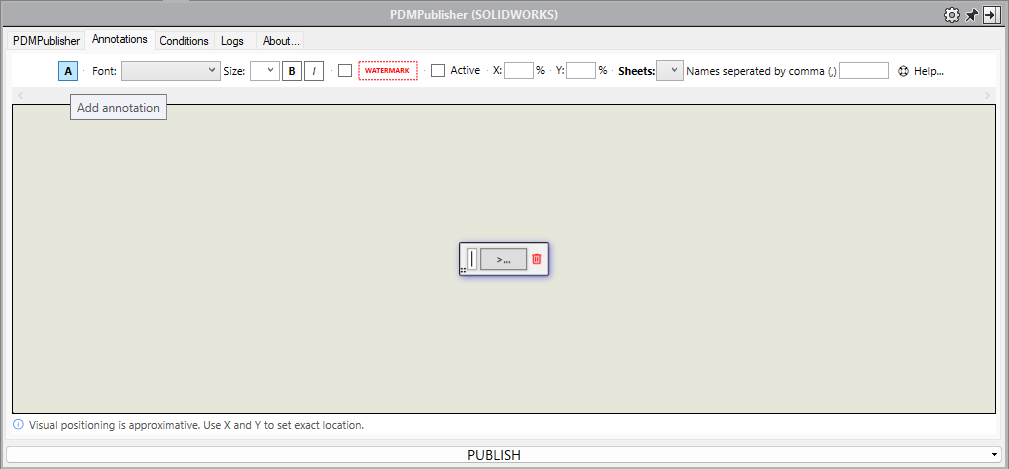
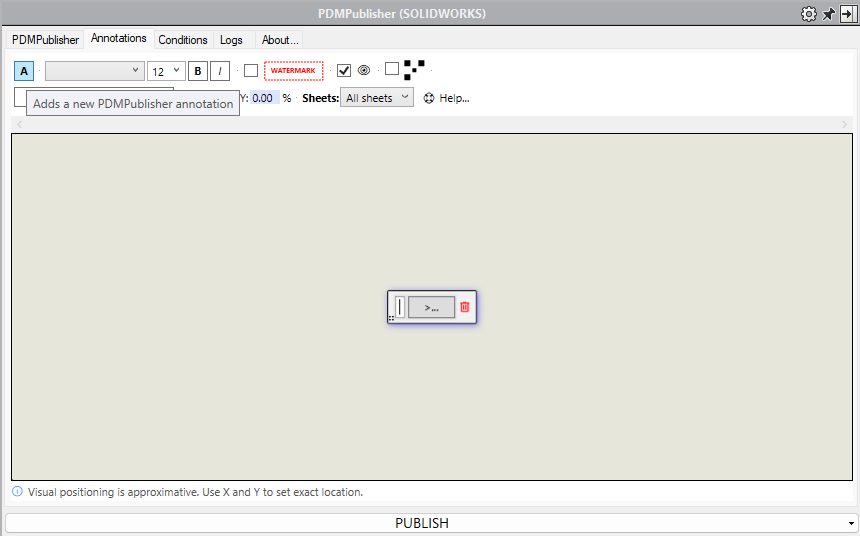
added copy xy from note to annotations tab

Changed region(s): [[0.0, 0.0, 1.0, 1.0], [0.4233, 0.5075, 0.5744, 0.6269], [0.8767, 0.1194, 0.9372, 0.1791]]

diff --git a/docs/src/pdmpublishersolidworks_annotations.html b/docs/src/pdmpublishersolidworks_annotations.html
@@ -152,8 +152,34 @@
 <h2 id="annotation-position">Annotation Position</h2>
 <ul>
 <li>Each annotation can be repositioned manually by clicking and dragging from its bottom-left corner to the desired location.</li>
-<li>Alternately, Each annotation can be set using the X and Y coordinates. X is a percentage relative to the width and Y is a percentage relative to the height of the sheet.</li>
 </ul>
+<p><img src="/images/AddingAnnotations5.png" alt="Adding an Annotation"></p>
+<ul>
+<li><p>Alternately, Each annotation can be set using the X and Y coordinates. X is a percentage relative to the width and Y is a percentage relative to the height of the sheet.</p>
+</li>
+<li><p>It is also possible to copy the position of existing annotations. This is done by following the steps below.</p>
+<ol>
+<li><p>In PDMpublisher, navigate to the Annotations tab.</p>
+</li>
+<li><p>Select the PDMpublisher annotation that you want to position on the drawing.</p>
+</li>
+<li><p>In the active SOLIDWORKS drawing, select an existing note that will be used as a reference for positioning.</p>
+</li>
+<li><p>Return to the Annotations tab in PDMpublisher and click Copy XY from Note.</p>
+</li>
+<li><p>The X and Y coordinates of the selected SOLIDWORKS note are copied.</p>
+</li>
+<li><p>The PDMpublisher annotation is automatically positioned at the same location.</p>
+</li>
+<li><p>Once positioning is complete, delete the temporary SOLIDWORKS note from the drawing sheet.</p>
+</li>
+<li><p>Click Publish to generate the output.</p>
+</li>
+</ol>
+  <iframe width="560" height="315" src="https://www.youtube.com/embed/videoseries?si=yQhd5aaQ60HDTtPO&amp;list=PLnpGIvQNXY59j6jTrH1AMOxCD7sVj7ZA5" title="YouTube video player" frameborder="0" allow="accelerometer; autoplay; clipboard-write; encrypted-media; gyroscope; picture-in-picture; web-share" referrerpolicy="strict-origin-when-cross-origin" allowfullscreen=""></iframe>
+</li>
+</ul>
+<p><img src="/images/AddingAnnotations6.png" alt="Adding an Annotation"></p>
 <p><img src="/images/AddingAnnotations4.png" alt="Adding an Annotation"></p>
 <hr>
 <h2 id="sheets">Sheets</h2>

diff --git a/src/pdmpublishersolidworks_annotations.md b/src/pdmpublishersolidworks_annotations.md
@@ -72,7 +72,31 @@ This section provides an overview of the **Annotations tab** and explains the av
 ## Annotation Position
 
 - Each annotation can be repositioned manually by clicking and dragging from its bottom-left corner to the desired location.
+
+![Adding an Annotation](/images/AddingAnnotations5.png)
+
 - Alternately, Each annotation can be set using the X and Y coordinates. X is a percentage relative to the width and Y is a percentage relative to the height of the sheet.
+
+- It is also possible to copy the position of existing annotations. This is done by following the steps below.
+
+    1. In PDMpublisher, navigate to the Annotations tab.
+
+    2. Select the PDMpublisher annotation that you want to position on the drawing.
+
+    3. In the active SOLIDWORKS drawing, select an existing note that will be used as a reference for positioning.
+
+    4. Return to the Annotations tab in PDMpublisher and click **Copy XY from Note**.
+
+    5. The X and Y coordinates of the selected SOLIDWORKS note are copied.
+
+    6. The PDMpublisher annotation is automatically positioned at the same location.
+
+    7. Once positioning is complete, delete the temporary SOLIDWORKS note from the drawing sheet.
+
+    8. Click Publish to generate the output.
+
+
+![Adding an Annotation](/images/AddingAnnotations6.png)
 
 ![Adding an Annotation](/images/AddingAnnotations4.png)
 
